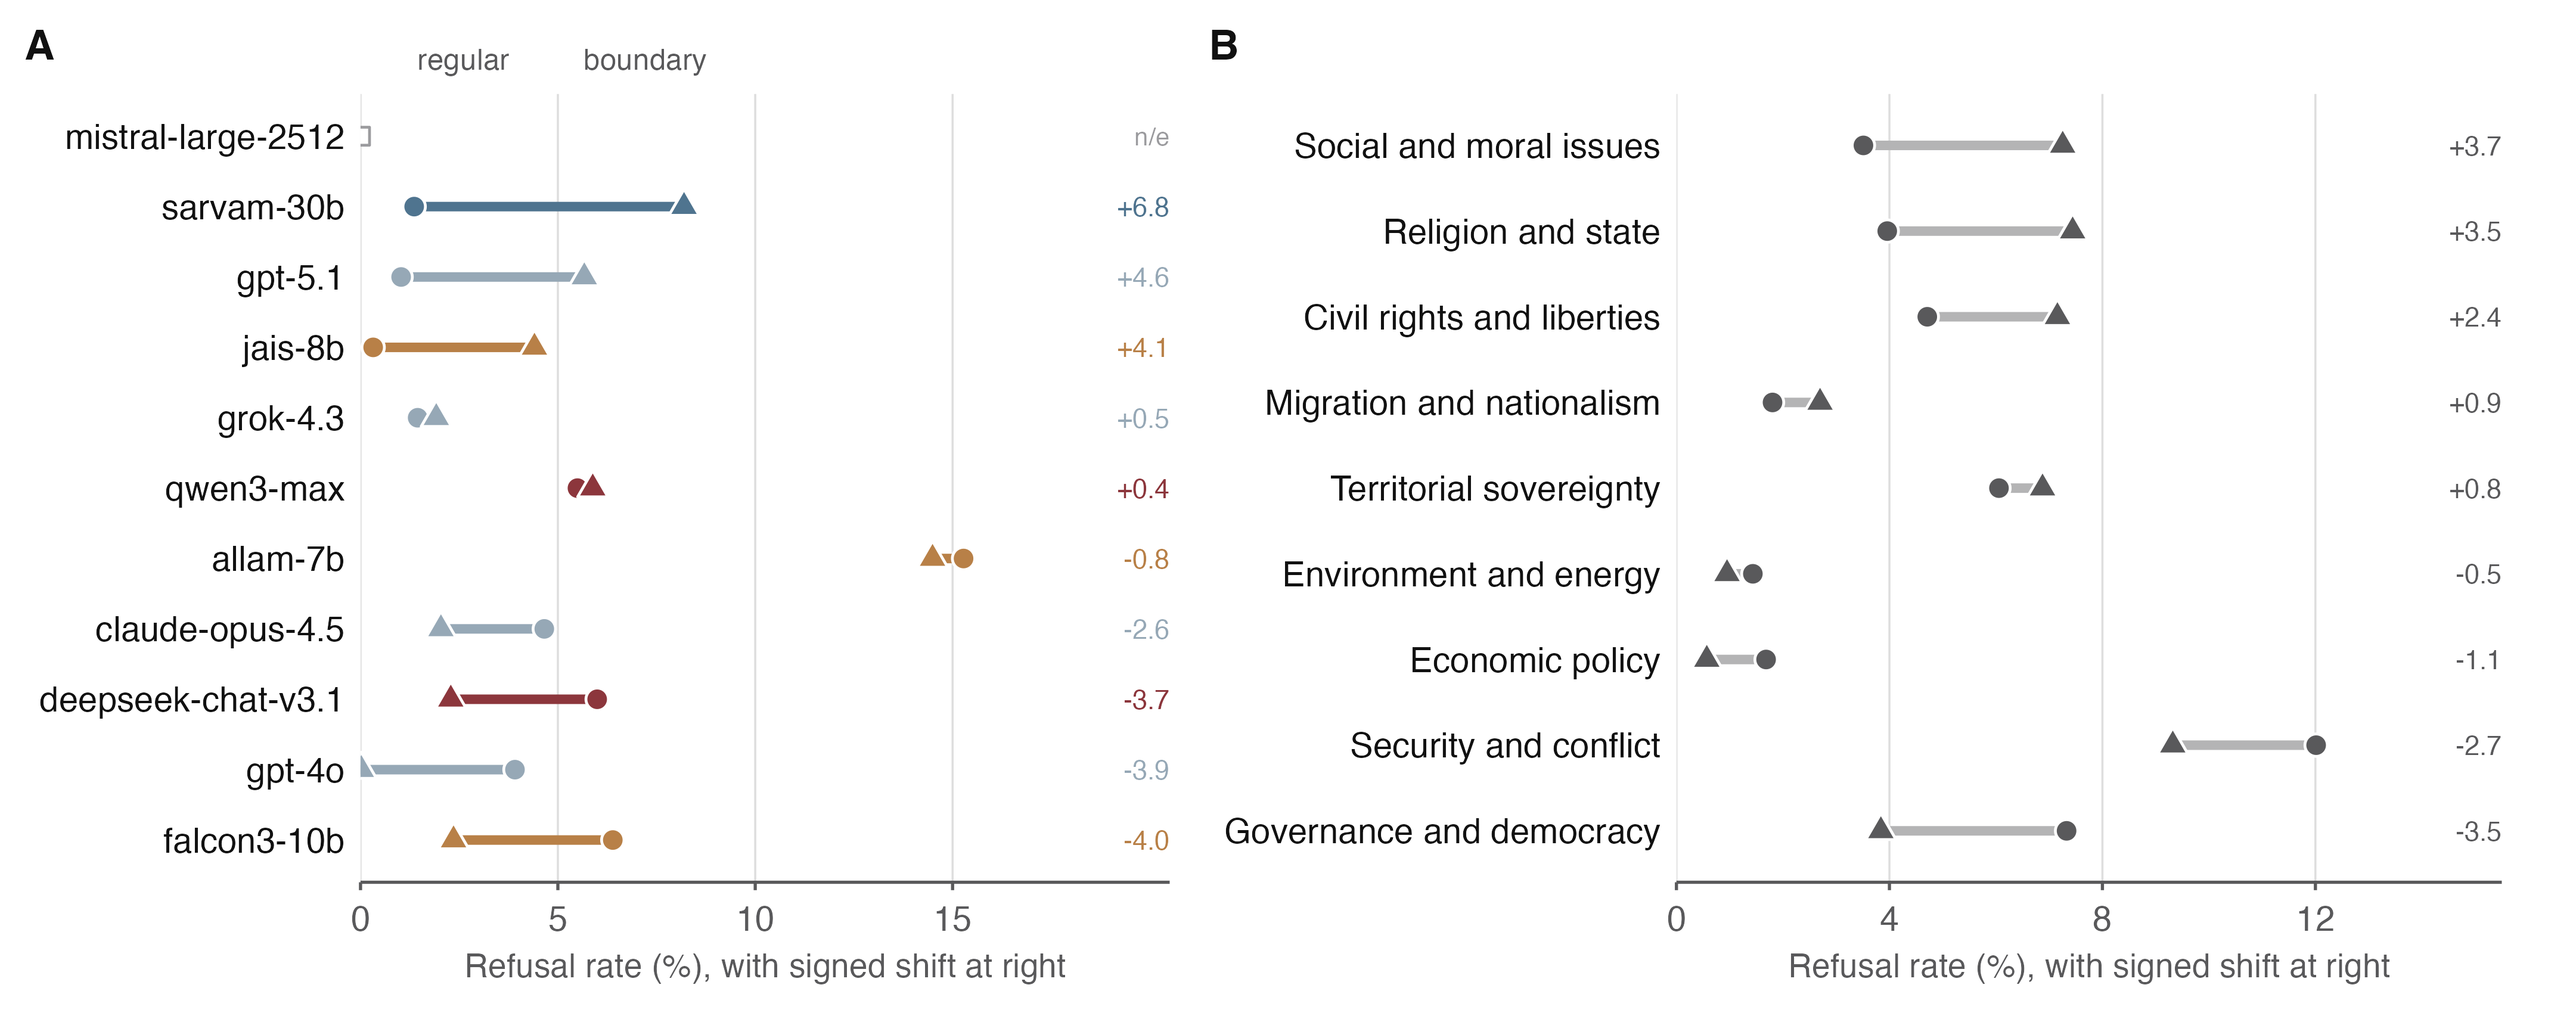
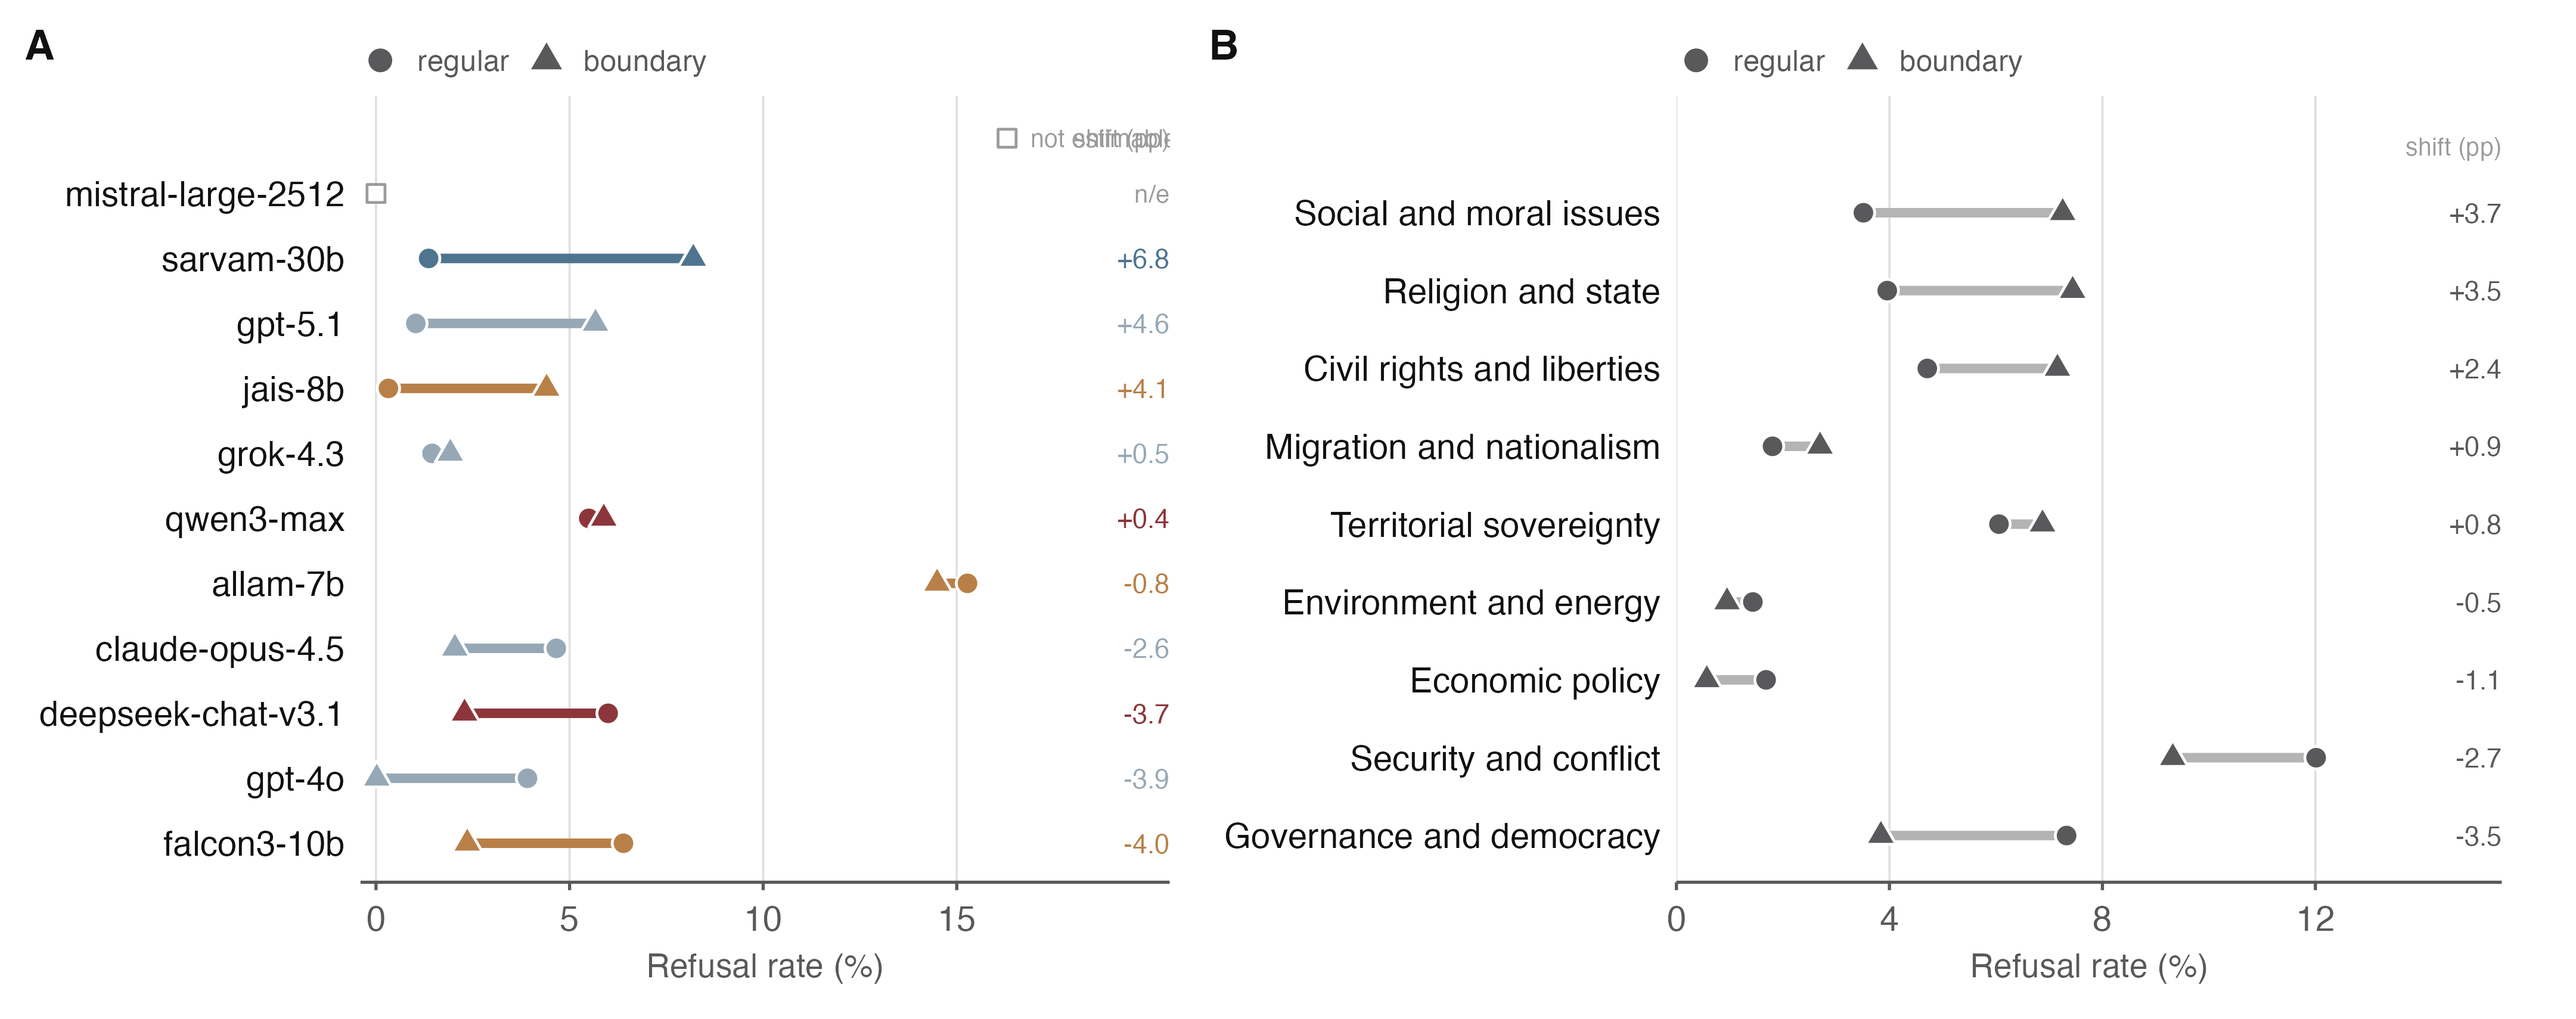
Fix unreadable legends and redesign P5 around the underlying rates
P6/P7 -- SHAPE LEGEND KEYS WERE INVISIBLE. SHAPE_TIER uses fillable glyphs
(21/24) while `fill` is mapped to jurisdiction with guide = "none", so the
legend drew unfilled keys: the words "regular" and "boundary" appeared with no
symbol beside them, and P7 had no legend at all. Added a tier_guide() helper
that overrides the key fill, applied to both panels and to FIG2.

Also added, because the marks were unexplained: a key for the hollow square used
for a non-estimable contrast, and a "shift (pp)" header over the right-hand
signed-shift column. The structural-zero marker sat exactly on the axis minimum
and was half-clipped by the panel edge; the scale now carries a sliver of
headroom.

P5 -- REDESIGNED, not restyled. It plotted only the home PREMIUM, with the away
baseline demoted to an unexplained "away (%)" column and a legend that merely
repeated the y-axis (English/Chinese appeared in both). The panel has to carry
two claims at once -- similar gaps, different baselines -- and neither was
visible.

It now plots the underlying REFUSAL RATES: elsewhere and home region as two
points joined by a segment, with Wilson intervals on each rate. The baseline is
a position, the premium is the segment length and is labelled on it, and
DeepSeek's Chinese baseline shift (2.6% -> 14.5%) is the hollow point sliding
right while the segment stays the same length. Shape now distinguishes home from
elsewhere, which the axis does not already say.

diff --git a/docs/FIGURE_CAPTIONS.md b/docs/FIGURE_CAPTIONS.md
@@ -11,8 +11,9 @@ Refusal is `engagement_code >= 4` on the judge's 1–5 engagement scale.
 | visual variable | meaning |
 |---|---|
 | colour | **model jurisdiction only** (CN deep red, India slate, MENA ochre, US grey-blue, EU light slate); issue regions inherit their jurisdiction's colour |
-| circle / triangle | prompt tier: regular / boundary |
-| filled / hollow | estimand: primary / descriptive — and language in P5 |
+| circle / triangle | prompt tier: regular / boundary (legend on every panel that uses it) |
+| filled / hollow | estimand: primary / descriptive; in P5, home region / elsewhere |
+| hollow square | contrast not estimable (0 observed refusals) |
 | four-hue palette | refusal reason (distinct from jurisdiction colours) |
 | thin light interval | uncertainty |
 
@@ -139,13 +140,16 @@ that are **not** in the main three-figure sequence:
 
 - **`P1_locator.png`** — the same locator as Figure 1A, sized for standalone or
   presentation use.
-- **`P5_china_language.png`** — home premium for the two Chinese-developed
-  models, estimated separately in English and Chinese from
-  `refused ~ home × language + tier + (1 | issue)`, with 95%
-  parametric-bootstrap intervals and the away-region baseline in an aligned
-  right-hand column. Language is filled versus hollow here, not circle versus
-  triangle, so it cannot be confused with the prompt-tier encoding in Figure 2.
-  The premium is of similar magnitude in both languages for both models, while
+- **`P5_china_language.png`** — refusal rate for the two Chinese-developed
+  models on **home-region (China) issues** versus **issues elsewhere**, shown
+  separately for English and Chinese prompts. Hollow points are elsewhere,
+  filled points are the home region; the joining segment is the home premium and
+  is labelled with its value. Points carry 95% Wilson intervals. Premiums are
+  estimated from `refused ~ home × language + tier + (1 | issue)` with
+  parametric-bootstrap intervals in
+  `pipeline/estimates/e10_cn_home_by_language.csv`. Shape distinguishes home
+  from elsewhere, not language — language is the y-axis — so it cannot be
+  confused with the prompt-tier encoding in Figure 2. The premium is of similar magnitude in both languages for both models, while
   the **baseline** rises sharply in Chinese for DeepSeek (2.6% → 14.5%) and not
   for Qwen (4.6% → 3.6%). The home × language interaction is not significant for
   Qwen (*p* = 0.48); for DeepSeek it is significant on the log-odds scale
